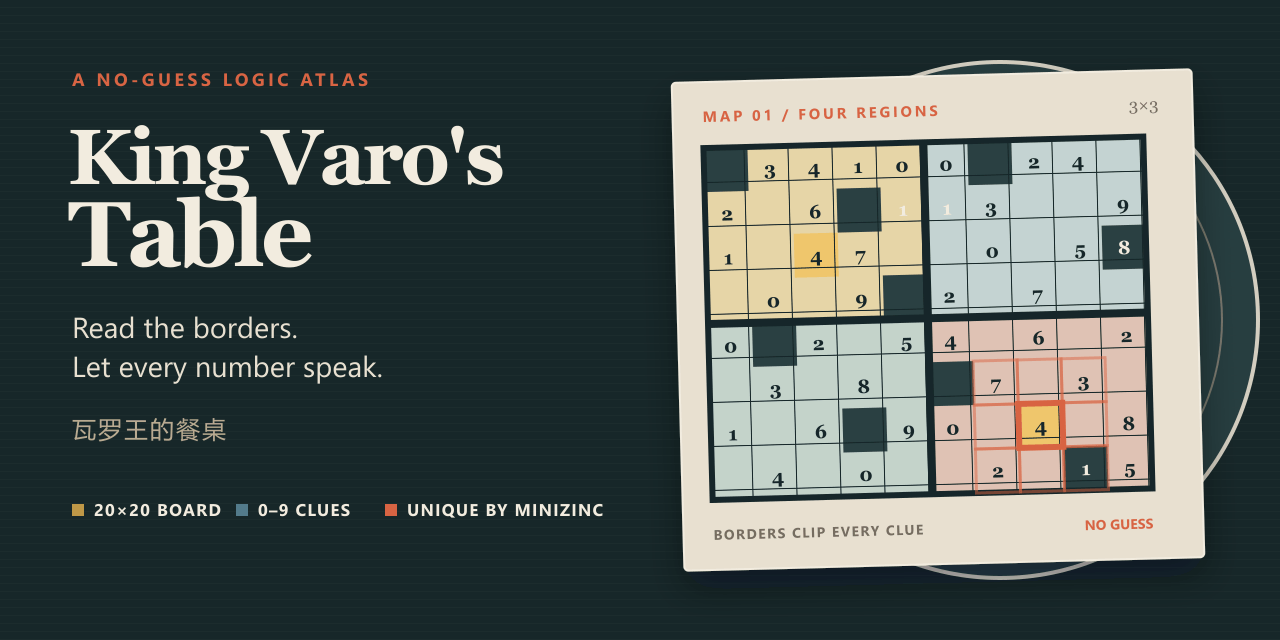
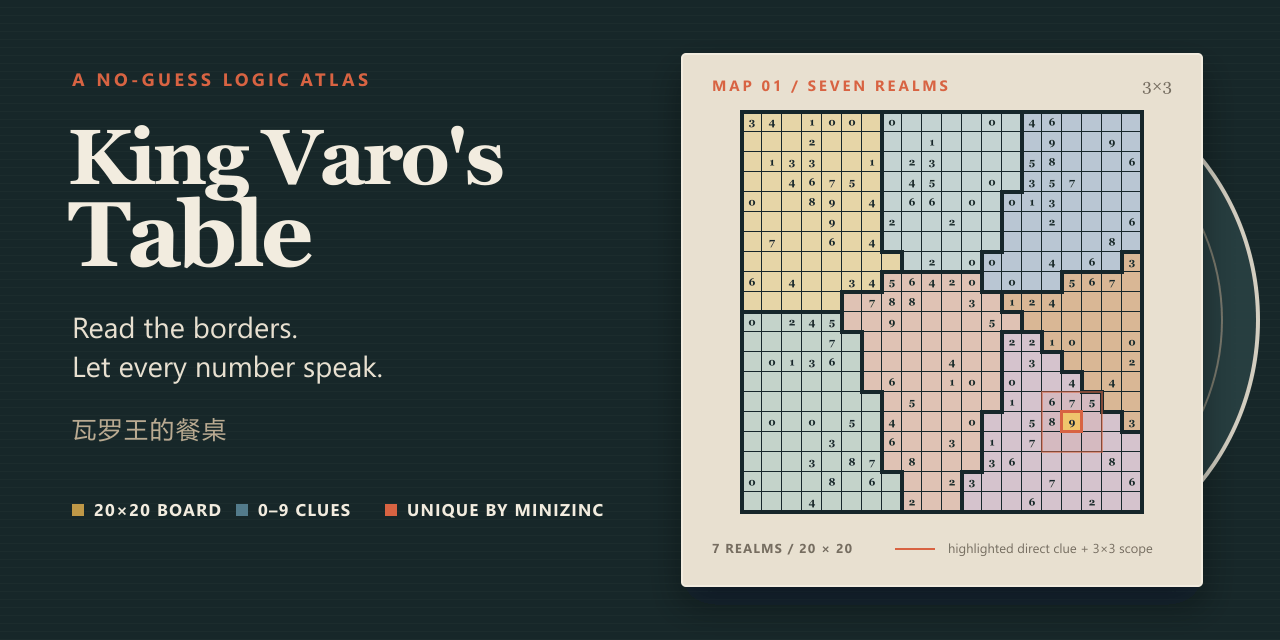
docs: update social preview raster and ledger

Changed region(s): [[0.5, 0.0625, 0.9375, 0.9375]]

diff --git a/docs/social-preview-ledger.md b/docs/social-preview-ledger.md
@@ -25,6 +25,7 @@ Claim boundaries:
 
 - The current repository is a browser-playable prototype, not a finished game.
 - The no-guess guarantee applies to the committed demo and the direct-clue rule set tested by the generator and browser logic.
+- The `v3` cover board is a forward-looking seven-region composition rather than the committed four-region JSON. Its 139 visible clues were recomputed from the repository's deterministic target with the production region-clipped neighborhood function; every candidate region was solved by direct clues and independently returned no second MiniZinc solution.
 - The banquet narrative and country-fall story cards are documented but not implemented in the runtime.
 - No public hosted demo or open-source license is currently included.
 
@@ -32,7 +33,7 @@ Claim boundaries:
 
 - Promise: solve a regional 3×3 counting puzzle without guessing and reconstruct King Varo's map.
 - Proof:
-  - a recognizable four-region numbered board;
+  - a recognizable multi-country numbered board bounded by one rectangular folio;
   - clue values from 0 through 9;
   - uniqueness checked by MiniZinc.
 - Exclude:
@@ -46,22 +47,22 @@ Claim boundaries:
 | --- | --- | ---: | ---: | ---: | ---: | ---: |
 | Local runtime board | complete artifact | 3 | 2 | 1 | 2 | 1 |
 | `web/styles.css` palette and paper texture | brand/material | 3 | 3 | 3 | 0 | 0 |
-| Four-region board geometry | subject/glyph | 3 | 2 | 3 | 0 | 0 |
+| Region-clipped board geometry | subject/glyph | 3 | 2 | 3 | 0 | 0 |
 | Narrative map-and-table specification | weak reference | 2 | 1 | 1 | 0 | 2 |
 
-- Keep: the ink-and-paper palette, dense numbered grid, four colored regions, thick national boundaries and orange hint accent.
+- Keep: the ink-and-paper palette, dense numbered grid, colored regions, thick national boundaries and orange hint accent.
 - Remove: browser layout, control panels, long Chinese instructions, counters and incidental UI chrome.
 - Repair: enlarge the board into a single legible product artifact and reserve a clean title field.
 - Supplement: a plate-shaped field behind the map, grounded in the selected title and narrative specification.
 - Interpretation level: 3, bounded reconstruction.
 - Continuity model: isolated complete artifact.
-- Aspect fit: the tall runtime page is not embedded. Its board, palette and topology are extracted and recomposed into a self-contained 500×450 map artifact, leaving no inert screenshot gutters.
+- Aspect fit: the tall runtime page is not embedded. Its board, palette and topology are extracted and recomposed into a self-contained square map artifact, leaving no inert screenshot gutters.
 
 Fragment ledger:
 
 | Source region | Semantic unit | Boundary | Adjacency | Thumbnail verdict |
 | --- | --- | --- | --- | --- |
-| Runtime puzzle board | four-region clue grid | complete paper panel | isolated over a plate field | pass |
+| Runtime puzzle board | region-clipped clue grid | complete paper panel | isolated over a plate field | pass |
 | Runtime title/palette | brand typography and colors | independent left copy field | separated from proof by space | pass |
 
 ## Composition
@@ -75,28 +76,30 @@ Line ledger:
 
 | Element | Role | Bounds or endpoints | Evidence |
 | --- | --- | --- | --- |
-| Cell grid | board boundaries | clipped to the map board | current 20×20 board language |
-| Heavy cross-boundaries | national/logic region boundaries | span the board at the four-region divisions | region-clipped clue mechanic |
+| Cell grid | 20 columns × 20 rows, each exactly 20×20 px | `x=742..1142`, `y=112..512`; explicit lines every 20 px | committed 20×20 demo geometry |
+| Irregular internal boundaries | national/logic region boundaries | stepped paths on cell edges, clipped by the outer 400×400 rectangle | narrative countries and region-clipped clue mechanic |
 | Plate rings | physical object boundary | closed circles behind the map | project title and narrative premise |
-| Hint outlines | target and effective-scope boundaries | closed cells inside one 3×3 neighborhood | implemented direct-clue hint UI |
+| Hint outlines | target and effective-scope boundaries | exact 60×60 scope around one exact 20×20 cell | implemented direct-clue hint UI |
 
 The subtle horizontal background marks are material texture inherited from `web/styles.css`, not connectors or data lines.
 
 ## Version and output
 
-- Baseline: none.
-- Candidate: `v1`.
-- Identity anchors: product name, ink/paper palette, four-region board, clue digits and orange hint.
-- Forbidden changes: invented artwork, unsupported release claims, a generic purple gradient, or replacing the board with decorative code imagery.
-- Promotion verdict: promote. The corrected hint scope remains inside the board, and the title and product artifact remain legible in both light- and dark-surround 320×160 reviews.
+- Baseline: `v2`; it fixed the false 10×8 proof by using an unrotated, exact 20×20 board, but its four rectangular quadrants still read as a dashboard layout rather than a historical map.
+- Candidate: `v3`; preserve the exact grid and rectangular folio while repartitioning its interior into seven connected, irregular realms generated on cell boundaries.
+- Identity anchors: product name, ink/paper palette, multi-country board, clue digits and orange hint.
+- Protected strengths: exact 20×20 geometry, large rectangular crop, readable title, plate-and-paper material, restrained palette and mechanically valid direct-clue highlight.
+- Allowed changes: internal region count, region silhouettes, region colors, visible clue placement and the selected hint cell.
+- Forbidden changes: rotating or warping the board; moving any internal boundary off the 20 px lattice; allowing a region fill outside the outer rectangle; showing clue values that were not recomputed for the new borders; invented artwork or unsupported release claims; generic restyling that replaces the board with decoration.
+- Promotion verdict: promote. Compared with `v2`, the candidate adds a readable kingdom-map silhouette without changing the exact outer frame or any cell dimensions. All seven regions are connected, the irregular borders remain on cell edges, and the candidate passes the full-size and both thumbnail reviews without weakening title or product-proof legibility.
 
 Output targets:
 
 - Editable source: `docs/social-preview.svg`
 - Raster: `docs/social-preview.png`
 - Review sheet: temporary validation artifact, not committed
-- Raster result: 1280×640 PNG, 60,299 bytes
-- Mechanical validation: pass
+- Raster result: 1280×640 PNG, 37,150 bytes
+- Mechanical validation: pass (400×400 clip; 20×20 exact grid; seven connected regions containing 69, 50, 56, 67, 70, 55 and 33 cells; 139 recomputed visible clues; direct-solved and MiniZinc-unique per region; UTF-8 clean; no rotation)
 - Full-size visual review: pass
 - 320×160 light-surround review: pass
 - 320×160 dark-surround review: pass
